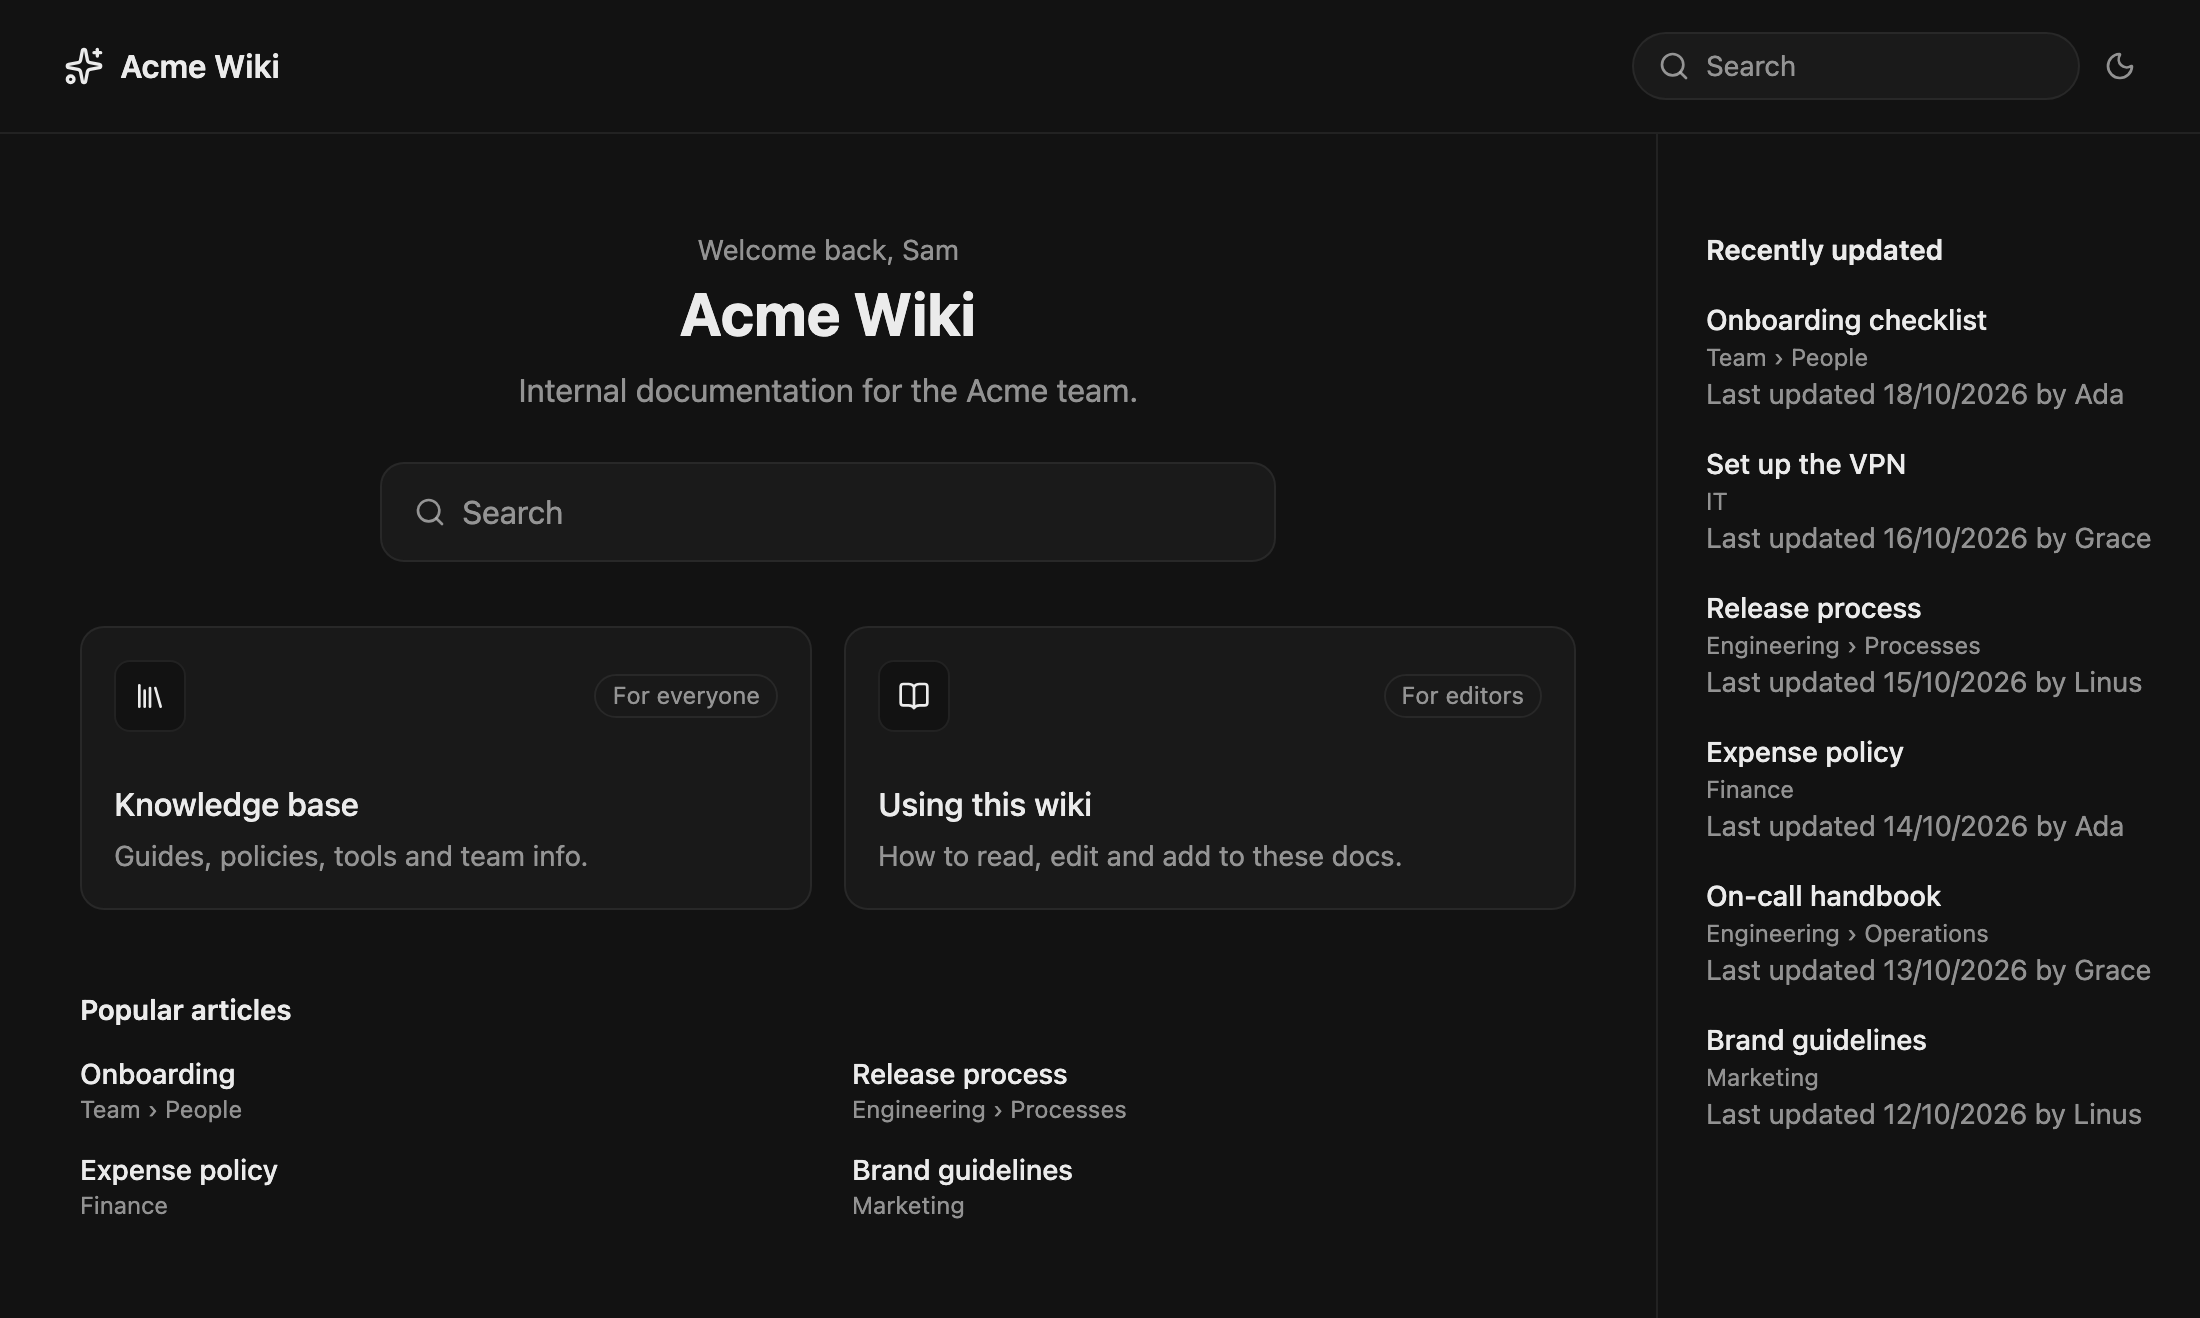
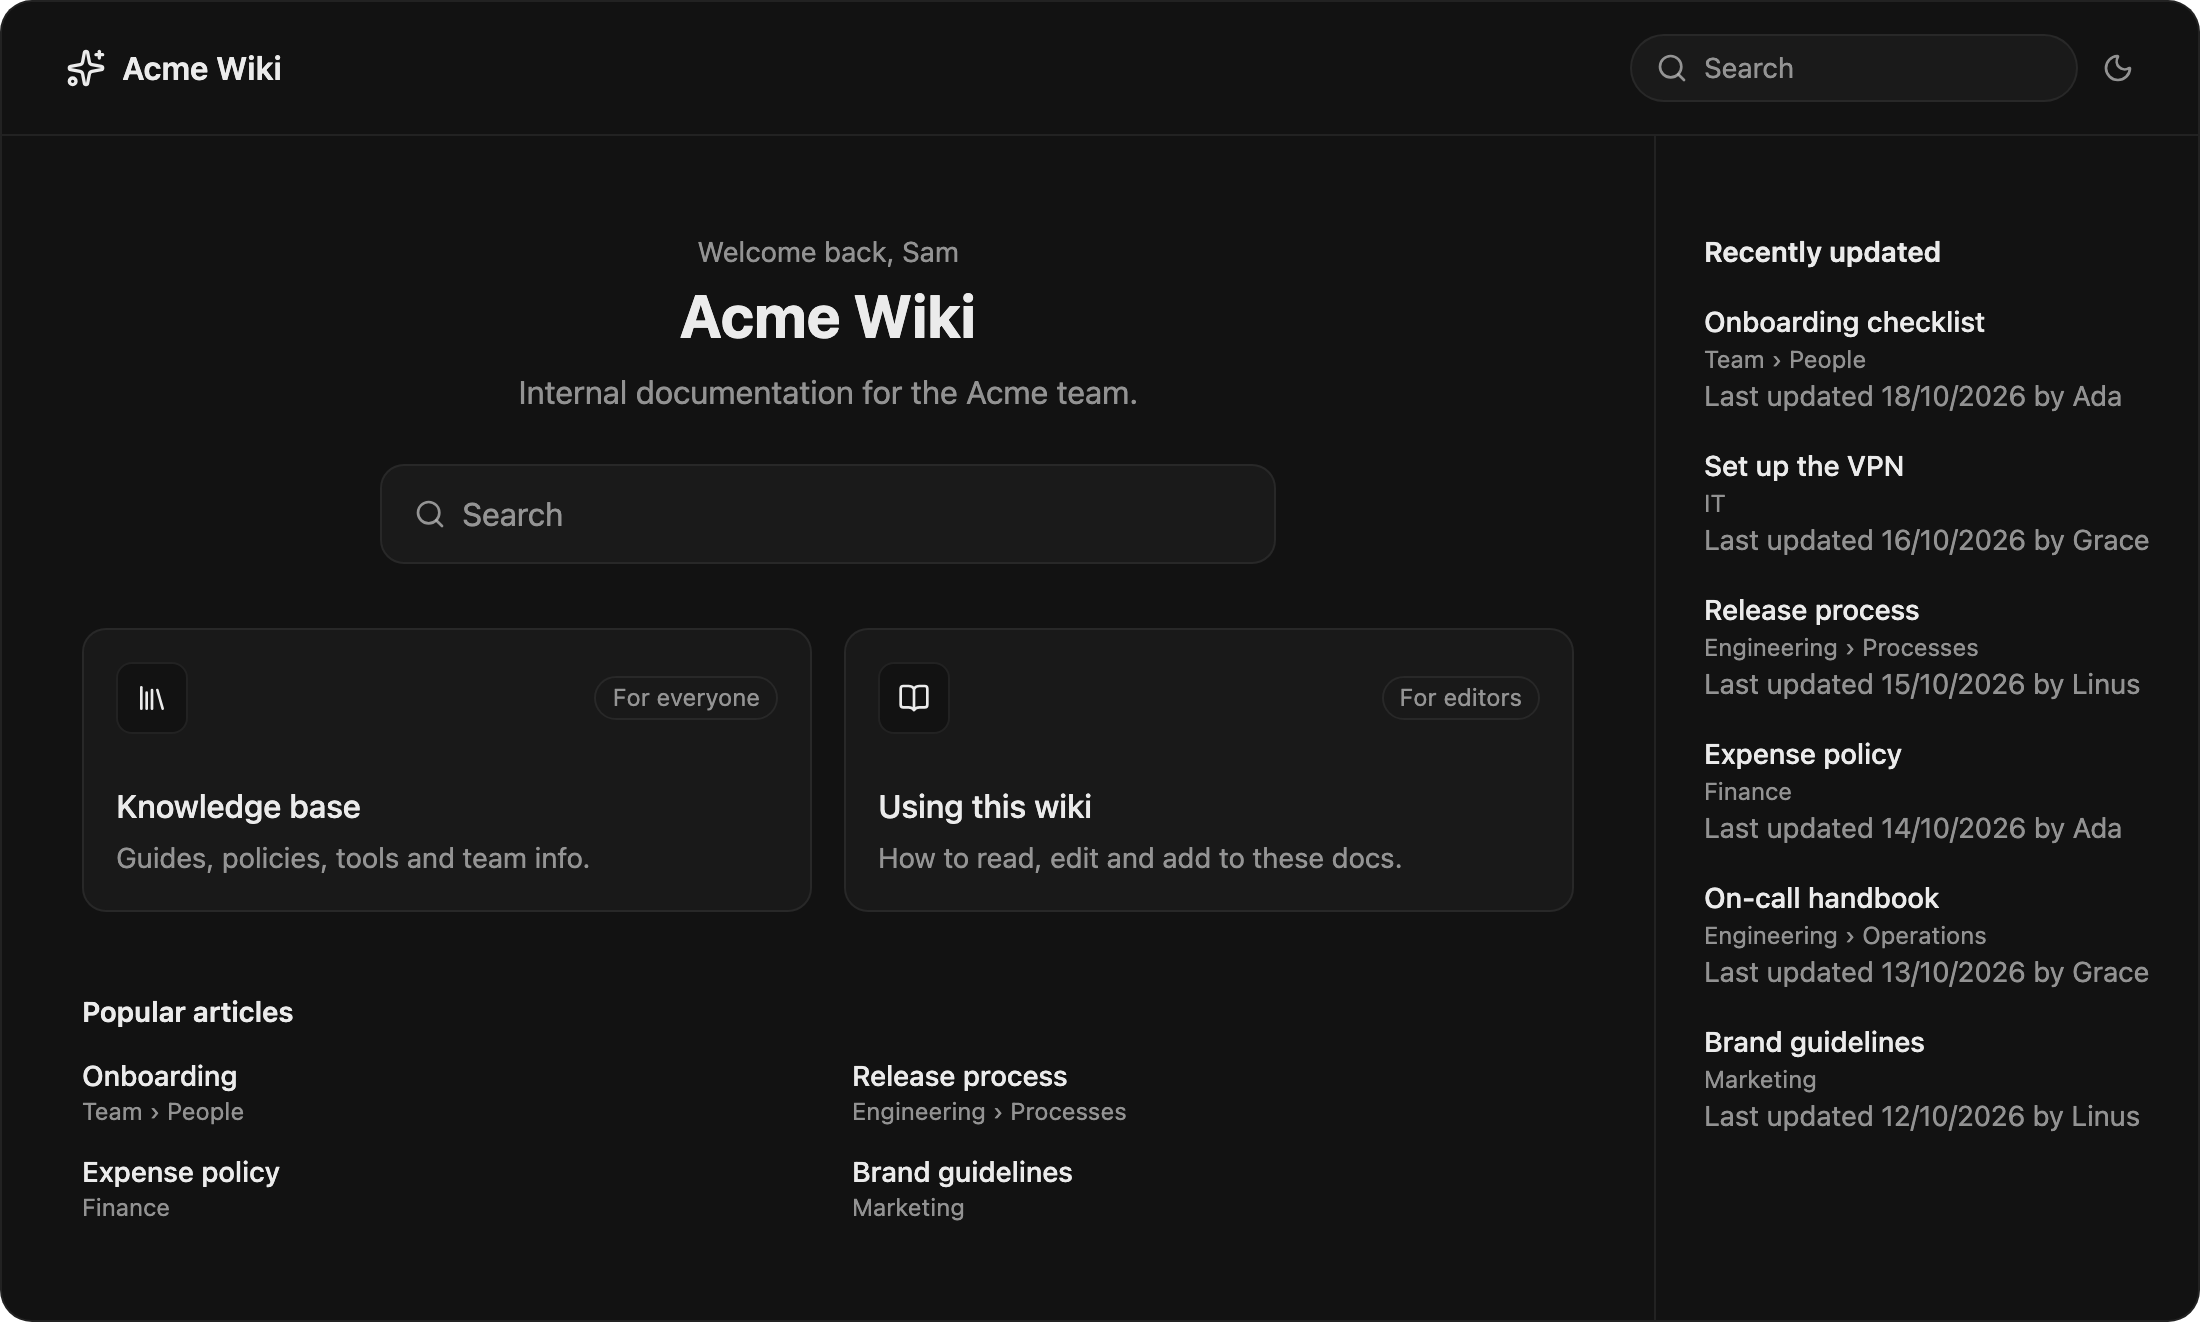
Capture previews with the frame as the outermost element
Screenshots are cropped to the frame and use a transparent background, so
the rounded outline sits flush on GitHub. The wiki example gets the same
rounded border.

Claude-Session: https://claude.ai/code/session_0121kxNFBZadoimDmhJeGX2b

diff --git a/demo/src/demo/wiki-home-example.tsx b/demo/src/demo/wiki-home-example.tsx
@@ -24,7 +24,7 @@ const popular = [
 
 export function WikiHomeExample() {
   return (
-    <div className="w-[1100px] bg-fd-background text-fd-foreground">
+    <div className="w-[1100px] overflow-hidden rounded-2xl border border-fd-border bg-fd-background text-fd-foreground">
       <header className="flex items-center justify-between border-b border-fd-border px-8 py-4">
         <div className="flex items-center gap-2 font-semibold">
           <Sparkles className="size-5" />
